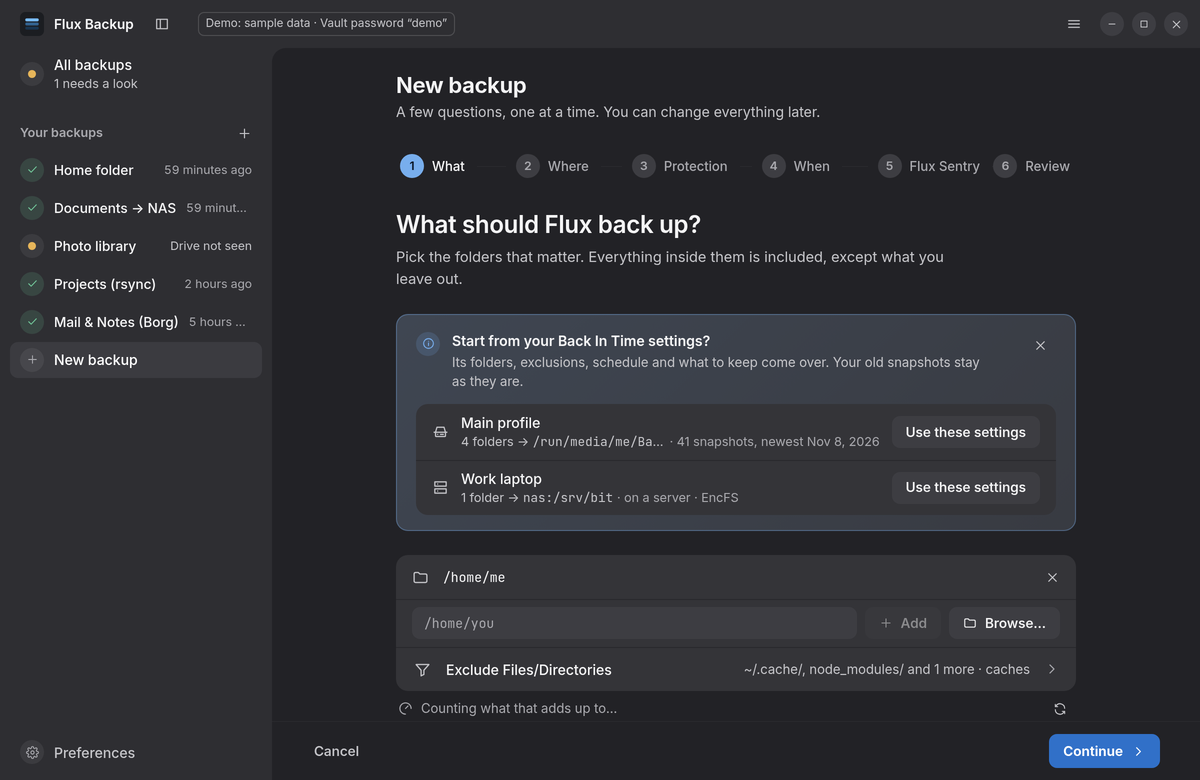
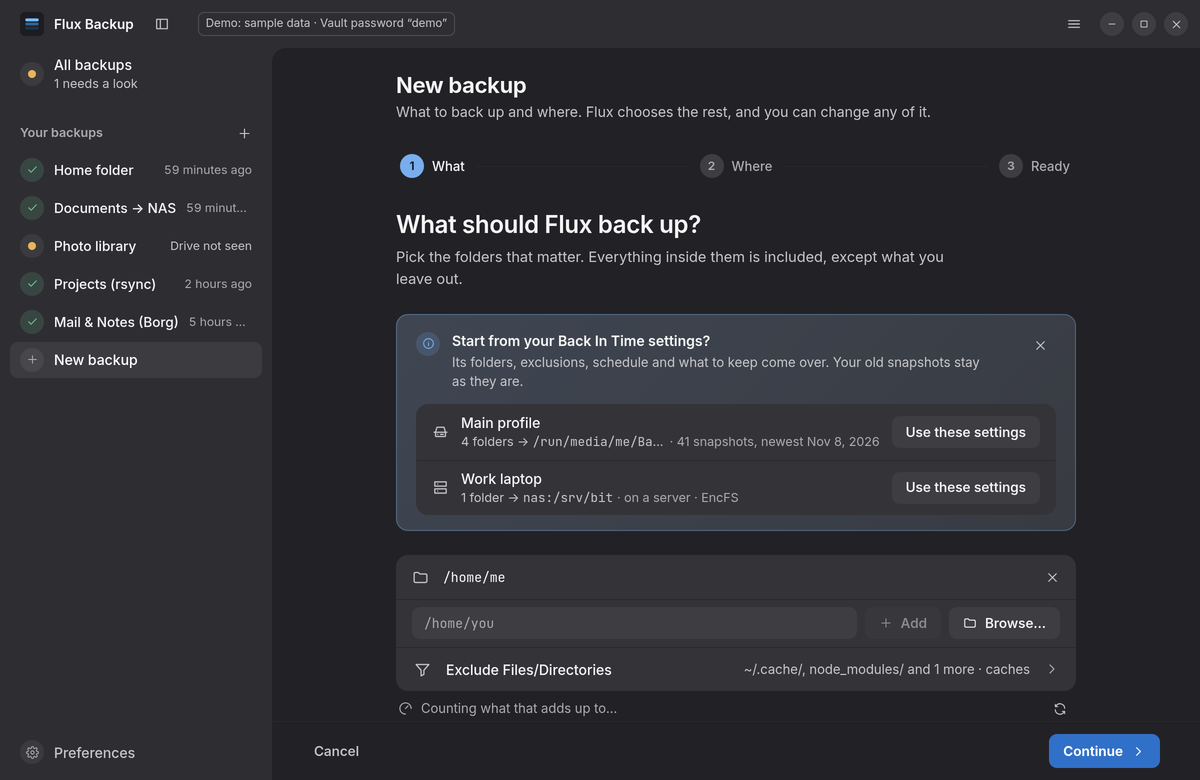
Phase 168: a new backup in two questions
Asked by the owner: streamline setting up a new backup. The guide had six
steps after the template picker; with a template, four of them (how it's
stored, when, what to keep, Flux Sentry) had their answer already and took
only Continue.

The steps are now What, Where and Ready. Ready lists the rest under
"Chosen for you", each a row that opens the former step in the editor's
dialog; one that needs something (an encrypted Vault's password) says so on
its row and in the footer.

Checked in the demo (headless Chrome), dark and light, through to the
closing screen; two screenshots retaken. svelte-check, app tests, build.

Claude-Session: https://claude.ai/code/session_01Quu1ZsNp2r6vVJbxJzH3J9

diff --git a/app/src/lib/components/ProfileEditor.svelte b/app/src/lib/components/ProfileEditor.svelte
@@ -191,7 +191,7 @@
   // The main page asks the three questions; every further group of settings is a row
   // that opens just that group (docs/UX_PRINCIPLES.md, rule 7). Nothing stays "expanded":
   // the editor always opens on the main page.
-  type Page = "exclusions" | "storage" | "security" | "connection" | "network" | "schedule" | "retention" | "tests" | "webhooks" | "hooks" | "options";
+  type Page = "setup-protect" | "setup-when" | "setup-sentry" | "exclusions" | "storage" | "security" | "connection" | "network" | "schedule" | "retention" | "tests" | "webhooks" | "hooks" | "options";
   /** The main page's sections, each of which can open as a dialog on its own. */
   type Section = "sources" | "destination" | "copies" | "when" | "keep" | "more";
   const sectionTitle: Record<Section, { title: string; text: string }> = {
@@ -214,6 +214,10 @@
   let dialogSection = $state<Section | null>(untrack(() => (dialogOnly?.startsWith("section:") ? (dialogOnly.slice(8) as Section) : null)));
   let page = $state<Page | null>(untrack(() => (dialogOnly && !dialogOnly.startsWith("section:") ? (dialogOnly as Page) : null)) ?? (((askedPage ?? demoPage) as Page | null) ?? null));
   const pageTitle: Record<Page, { title: string; text: string }> = {
+    // The new backup guide's own: what Flux chose, opened from its last screen.
+    "setup-protect": { title: "How should they be stored?", text: "Plain folders are the simplest. Encryption keeps them private if the drive is lost. Or let a standard tool write them, so they never depend on Flux." },
+    "setup-when": { title: "When should it back up?", text: "Flux backs up in the background, even with the app closed, and only copies what changed." },
+    "setup-sentry": { title: "Should Flux Sentry keep watch?", text: "Flux Sentry learns how much of this backup normally changes. When a backup doesn't fit, or shows the marks of ransomware, it warns you and keeps the snapshot from before." },
     exclusions: { title: "Exclude Files/Directories", text: "Files and folders that aren't worth backing up: caches, downloads, build output." },
     storage: { title: "How backups are stored", text: "Flux's own formats, or a standard tool's so the backups work without Flux." },
     security: { title: "Security", text: "How well the Vault's password resists guessing, an optional unlock file, and what the app and the drive give away." },
@@ -275,9 +279,14 @@
     // A dialog on its own can't show another group: its message says what's wrong.
     if (dialogOnly) return;
     if (creating) {
-      const s = stepOf(field);
-      dir = -1;
+      const a = areaOf(field);
+      const s: Step = a === "what" || a === "where" ? a : "review";
+      dir = s === step ? dir : -1;
       step = s;
+      // What Flux chose opens over the last screen.
+      page = pageOf(field) ?? (a === "protect" ? "setup-protect" : a === "when" ? "setup-when" : null);
+      await tick();
+      return;
     }
     page = pageOf(field);
     await tick();
@@ -748,15 +757,19 @@
   const opt = (v: string) => (v.trim() === "" ? null : v.trim());
   const lines = (v: string) => v.split("\n").map((l) => l.trim()).filter(Boolean);
 
-  // ---- the setup wizard (new backups): one question per step ----
-  type Step = "what" | "where" | "protect" | "when" | "sentry" | "review";
+  // ---- the setup wizard (new backups) ----
+  // Two questions have no answer Flux could choose: what, and where. The rest (how it's
+  // stored, when, what to keep, Flux Sentry) comes from the template with an answer that
+  // suits most backups, so it isn't asked: the last screen shows what was chosen, and each
+  // answer opens there to be changed. (Through 1.2 each was a step of its own: six, where
+  // four only ever needed Continue.)
+  type Step = "what" | "where" | "review";
+  /** What a problem is about: a step, or one of the answers the last screen shows. */
+  type Area = Step | "protect" | "when" | "sentry";
   const steps: { id: Step; label: string; title: string; text: string }[] = [
     { id: "what", label: "What", title: "What should Flux back up?", text: "Pick the folders that matter. Everything inside them is included, except what you leave out." },
     { id: "where", label: "Where", title: "Where should the backups go?", text: "A drive you plug in, a folder, or a server on your network. Best on a different disk than the files themselves." },
-    { id: "protect", label: "Protection", title: "How should they be stored?", text: "Plain folders are the simplest. Encryption keeps them private if the drive is lost. Or let a standard tool write them, so they never depend on Flux." },
-    { id: "when", label: "When", title: "When should it back up?", text: "Flux backs up in the background, even with the app closed, and only copies what changed." },
-    { id: "sentry", label: "Flux Sentry", title: "Should Flux Sentry keep watch?", text: "Flux Sentry learns how much of this backup normally changes. When a backup doesn't fit, or shows the marks of ransomware, it warns you and keeps the snapshot from before." },
-    { id: "review", label: "Review", title: "", text: "Check the details. Everything can be changed later in Settings." },
+    { id: "review", label: "Ready", title: "", text: "Flux chose the rest to suit most backups. Change anything here, or later in Settings." },
   ];
   let step = $state<Step>("what");
   /** The furthest step reached (earlier ones can be revisited from the stepper). */
@@ -771,7 +784,7 @@
   let makingCode = $state(false);
   let codeMade = $state(false);
 
-  function stepOf(field: string): Step {
+  function areaOf(field: string): Area {
     if (field.startsWith("sources")) return "what";
     if (field.startsWith("target")) return "where";
     if (/^(vault|borg|rsync|engine)/.test(field)) return "protect";
@@ -779,18 +792,18 @@
     return "review";
   }
   /** What still stops this step, in words (null: ready). */
-  function stepIssue(s: Step): string | null {
+  function stepIssue(s: Area): string | null {
     if (!draft) return null;
     if (s === "what" && !draft.sources.paths.length) return "add a folder";
     if (s === "where" && draft.target.kind === "ssh" && !draft.target.host.trim()) return "type the server's name";
-    const e = issues.find((i) => i.severity === "error" && stepOf(i.field) === s);
+    const e = issues.find((i) => i.severity === "error" && areaOf(i.field) === s);
     if (e) return e.message;
     if (s === "protect" && encrypted && pwSource?.from === "file" && !pwSource.path.trim()) return "choose the key file";
     if (s === "protect" && encrypted && pwSource?.from === "command" && !pwSource.command.trim()) return "type the command that prints the " + pwWord;
     if (s === "protect" && pwIssue) return pwIssue;
     if (s === "review") {
-      for (const other of steps.slice(0, -1)) {
-        const x = stepIssue(other.id);
+      for (const other of ["what", "where", "protect", "when", "sentry"] as const) {
+        const x = stepIssue(other);
         if (x) return x;
       }
       if (!profileId) return "give it a name";
@@ -978,6 +991,11 @@
 
   <!-- A dialog on its own (from the Overview) saves by itself: Cancel and Save, and what
        stops saving said beside them. -->
+  <!-- An answer the new backup guide chose: what it is, or what it still needs. -->
+  {#snippet chosenRow(area: "protect" | "when" | "sentry", p: Page, title: string, icon: IconName, summary: string)}
+    {@const issue = stepIssue(area)}
+    <Row {title} {icon} subtitle={issue ? `Still needed: ${issue}` : summary} onclick={() => openPage(p)} />
+  {/snippet}
   {#snippet dialogButtons()}
     {@const first = issues.find((i) => i.severity === "error")}
     {#if first || pwIssue}
@@ -1462,7 +1480,22 @@
           {#snippet pageBody()}
             {#if draft && page}
 
-          {#if page === "exclusions"}
+          {#if page === "setup-protect"}
+            <StorageChoice engine={draft.engine} onchoose={(e) => setEngine(e)} />
+            {#if draft.engine === "vault"}
+              <!-- A Vault is a Vault either way: encryption is its own question. -->
+              <section>
+                <h3 class="group-title">Encryption</h3>
+                <div class="rows">{@render encryptionRow(false, "")}</div>
+              </section>
+            {/if}
+            {#if encrypted}{@render passwordGroup()}{/if}
+          {:else if page === "setup-when"}
+            <div id="sec-schedule">{@render whenBody()}</div>
+            {@render howItRuns()}
+          {:else if page === "setup-sentry"}
+            {@render sentryChoice()}
+          {:else if page === "exclusions"}
             <section class="flex flex-col gap-4">
               <Field label="" hint="*.iso or node_modules/ match anywhere; /path or ~/path one place; !pattern keeps something back in." issues={at("sources.exclude")}>
                 <ListEditor bind:items={draft.sources.exclude} placeholder="~/Videos/  or  *.iso" label="Left out" icon="filter" sizes={folderSizes} />
@@ -2153,25 +2186,6 @@
                     <div>{@render whereList()}</div>
                     {#if draft.target.kind === "ssh"}<div class="rows">{@render pageRow("connection", "terminal", connectionSummary)}</div>{/if}
                   </div>
-                {:else if step === "protect"}
-                  <StorageChoice engine={draft.engine} onchoose={(e) => setEngine(e)} />
-                  {#if draft.engine === "vault"}
-                    <!-- A Vault is a Vault either way: encryption is its own question. -->
-                    <section>
-                      <h3 class="group-title">Encryption</h3>
-                      <div class="rows">{@render encryptionRow(false, "")}</div>
-                    </section>
-                  {/if}
-                  {#if encrypted}{@render passwordGroup()}{/if}
-                {:else if step === "sentry"}
-                  {@render sentryChoice()}
-                {:else if step === "when"}
-                  <div id="sec-schedule">{@render whenBody()}</div>
-                  <section>
-                    <h3 class="group-title">What to keep</h3>
-                    <div class="rows">{@render pageRow("retention", "history", "", keepSummary)}</div>
-                  </section>
-                  {@render howItRuns()}
                 {:else}
                   {@render nameGroup()}
                   <section>
@@ -2179,11 +2193,18 @@
                     <div class="rows">
                       <Row title="What" icon="folder" subtitle={whatSummary} onclick={() => go("what")} />
                       <Row title="Where" icon={draft.target.kind === "ssh" ? "server" : "drive"} subtitle={whereSummary} onclick={() => go("where")} />
-                      <Row title="Protection" icon="lock" subtitle={protectSummary} onclick={() => go("protect")} />
-                      <Row title="When" icon="clock" subtitle={whenSummary} onclick={() => go("when")} />
-                      <Row title="Flux Sentry" icon="sentry" subtitle={sentrySummary} onclick={() => go("sentry")} />
-                      <Row title="What to keep" icon="history" subtitle={keepSummary} onclick={() => openPage("retention")} />
                     </div>
+                  </section>
+                  <!-- Not asked: chosen by the template, shown here, each one click to change. -->
+                  <section>
+                    <h3 class="group-title">Chosen for you</h3>
+                    <div class="rows">
+                      {@render chosenRow("protect", "setup-protect", "How it's stored", "lock", protectSummary + (draft.engine === "mirror" || draft.engine === "rsync" ? " · not encrypted" : ""))}
+                      {@render chosenRow("when", "setup-when", "When", "clock", whenSummary)}
+                      <Row title="What to keep" icon="history" subtitle={keepSummary} onclick={() => openPage("retention")} />
+                      {@render chosenRow("sentry", "setup-sentry", "Flux Sentry", "sentry", sentrySummary)}
+                    </div>
+                    <p class="mt-1.5 px-0.5 text-[12.5px] text-fg-muted">Click one to change it.</p>
                   </section>
                   <section>
                     <h3 class="group-title">More options</h3>

diff --git a/site/guide.html b/site/guide.html
@@ -124,7 +124,7 @@ sudo PREFIX=/usr packaging/install.sh</code></pre></div>
 <tr><td><strong>Start from nothing</strong></td><td></td><td></td><td></td><td></td></tr>
 </tbody></table></div>
 <p>Everything a template fills in can be changed in the next steps. To make your own, open a backup's <strong>⋯</strong> menu › <strong>Save as a template…</strong>: new backups can then start from its folders, exclusions, schedule, what to keep and how it's stored (not where it goes, the other places it's copied to, or its webhooks). Your templates are listed under the built-in ones, with a button to remove them. In a terminal: <code>flux profile templates</code>, <code>flux profile create … --template development</code> (<code>-s</code> and <code>-x</code> replace the folders and add exclusions), <code>flux profile save-template &lt;profile&gt; "&lt;name&gt;"</code>, <code>flux profile delete-template "&lt;name&gt;"</code>.</p>
-<p>A short guide then asks one question per step: <strong>What</strong> to back up (your home folder by default), <strong>Where</strong> to keep it (a connected drive, each with a meter of how full it is; a folder; or an SSH server), <strong>Protection</strong> (plain folders, a Vault encrypted or not, or written by rsync or Borg so the backups never depend on Flux; an encrypted one asks for its password right there), <strong>When</strong>, and <strong>Flux Sentry</strong>: whether it keeps watch for unusual changes, <em>normally</em> (recommended), <em>closely</em> or not at all (see <a href="#what-to-keep">Unusual changes</a>). <strong>Review</strong> shows every answer with a way back to change it and the name it will have; <strong>Create backup</strong> sets it up and offers <strong>Back up now</strong> for the first run. Later, a backup's <strong>Settings</strong> show the same questions on one page. Everything else is one click away and has sensible defaults: each group of settings is a row showing its current value (<em>Exclude Files/Directories › caches</em>, <em>How backups are stored › Plain folders</em>, <em>Keep and remove snapshots</em>, <em>Hooks › None</em>…). Click one to open just that group in a dialog over the editor; <strong>Done</strong> closes it, and nothing is saved until you click <strong>Save</strong>. A row with a problem says so in red.</p>
+<p>A short guide then asks the two things only you can answer: <strong>What</strong> to back up (your home folder by default) and <strong>Where</strong> to keep it (a connected drive, each with a meter of how full it is; a folder; or an SSH server). The rest Flux chooses, from the template, to suit most backups, and the last screen, <strong>Ready</strong>, shows it under <em>Chosen for you</em>: <strong>How it's stored</strong> (plain folders, a Vault encrypted or not, or written by rsync or Borg so the backups never depend on Flux; an encrypted one asks for its password right there), <strong>When</strong>, <strong>What to keep</strong>, and <strong>Flux Sentry</strong>: whether it keeps watch for unusual changes, <em>normally</em> (recommended), <em>closely</em> or not at all (see <a href="#what-to-keep">Unusual changes</a>). Click any of them to change it there; one that still needs something (a password) says so. <strong>Create backup</strong> sets it up and offers <strong>Back up now</strong> for the first run. Later, a backup's <strong>Settings</strong> show the same questions on one page. Everything else is one click away and has sensible defaults: each group of settings is a row showing its current value (<em>Exclude Files/Directories › caches</em>, <em>How backups are stored › Plain folders</em>, <em>Keep and remove snapshots</em>, <em>Hooks › None</em>…). Click one to open just that group in a dialog over the editor; <strong>Done</strong> closes it, and nothing is saved until you click <strong>Save</strong>. A row with a problem says so in red.</p>
 <p>While you choose what to back up, Flux counts what it adds up to after the exclusions ("About 32 GiB in 51,900 files") and warns if that's more than the free space where it would go. The ↻ button next to it counts again, after you change what's left out or the files themselves. On <strong>When</strong>, <em>What happens each time it backs up</em> explains in plain words what your choices add up to: when it runs, what it copies, what it keeps, and how to get files back.</p>
 <p>In <em>Settings › Performance and behaviour</em>, <strong>Recommended defaults</strong> puts every setting there back to what Flux recommends (nothing is saved until you click <strong>Save</strong>).</p>
 <p><strong>Coming from Back In Time?</strong> If Back In Time is set up for you (<code>~/.config/backintime/config</code>), the first step offers each of its profiles: <strong>Use these settings</strong> fills in its folders, exclusions, schedule, what to keep and options (extra rsync options too, except the ones Flux sets itself). Each step can still be changed; on <strong>Protection</strong>, rsync is preselected because it makes the same kind of plain, hard-linked folders Back In Time did, and the other choices are right there (a profile Back In Time encrypted with EncFS becomes an encrypted Vault). Flux can't carry on Back In Time's own snapshots, so it starts a fresh set next to them. They stay where they are, untouched: keep Back In Time to restore from them, and turn off its schedule so both don't back up at once. In a terminal: <code>flux profile backintime</code> lists the profiles, <code>flux profile backintime 1</code> creates a Flux profile from the first (<code>--engine</code> to choose another way of storing it, <code>--id</code> to name it).</p>

diff --git a/site/index.html b/site/index.html
@@ -101,7 +101,7 @@
         <div class="sentry-mark"><svg viewBox="0 0 24 24" fill="none" stroke="currentColor" stroke-width="1.6" stroke-linecap="round" stroke-linejoin="round" aria-hidden="true"><path d="M12 3l8 3v6c0 4.5-3.4 8.3-8 9-4.6-.7-8-4.5-8-9V6l8-3ZM7.6 11.6c1.2-1.7 2.7-2.6 4.4-2.6s3.2.9 4.4 2.6c-1.2 1.7-2.7 2.6-4.4 2.6s-3.2-.9-4.4-2.6ZM12 11.6h.01"/></svg></div>
         <div>
           <h3>On watch from the first backup.</h3>
-          <p>Setting up a backup asks one question about it: watch <b>normally</b> (recommended), <b>closely</b>, or not at all. Add <b>tripwire files</b>, and the first file an attacker touches may be the one that gives it away. A green <span class="sentry-tag"><svg viewBox="0 0 24 24" fill="none" stroke="currentColor" stroke-width="1.6" stroke-linecap="round" stroke-linejoin="round" aria-hidden="true"><path d="M12 3l8 3v6c0 4.5-3.4 8.3-8 9-4.6-.7-8-4.5-8-9V6l8-3ZM7.6 11.6c1.2-1.7 2.7-2.6 4.4-2.6s3.2.9 4.4 2.6c-1.2 1.7-2.7 2.6-4.4 2.6s-3.2-.9-4.4-2.6ZM12 11.6h.01"/></svg>Flux Sentry active</span> on the backup's page says it's there. Tell it <i>This was me</i> when a big change was yours, and it remembers.</p>
+          <p>A new backup is watched <b>normally</b>; when you set it up, one click changes that to <b>closely</b>, or to not at all. Add <b>tripwire files</b>, and the first file an attacker touches may be the one that gives it away. A green <span class="sentry-tag"><svg viewBox="0 0 24 24" fill="none" stroke="currentColor" stroke-width="1.6" stroke-linecap="round" stroke-linejoin="round" aria-hidden="true"><path d="M12 3l8 3v6c0 4.5-3.4 8.3-8 9-4.6-.7-8-4.5-8-9V6l8-3ZM7.6 11.6c1.2-1.7 2.7-2.6 4.4-2.6s3.2.9 4.4 2.6c-1.2 1.7-2.7 2.6-4.4 2.6s-3.2-.9-4.4-2.6ZM12 11.6h.01"/></svg>Flux Sentry active</span> on the backup's page says it's there. Tell it <i>This was me</i> when a big change was yours, and it remembers.</p>
         </div>
       </div>
     </section>

diff --git a/app/src/App.svelte b/app/src/App.svelte
@@ -141,7 +141,7 @@
           <p class="mt-1 text-sm text-fg-2">
             {app.creatingSystem
               ? "Back up the whole computer's settings and folders only root can read. Hooks of system profiles run as root too."
-              : "A few questions, one at a time. You can change everything later."}
+              : "What to back up and where. Flux chooses the rest, and you can change any of it."}
           </p>
         </div>
         {#if app.creatingTemplate === null}

diff --git a/docs/TRACKER.md b/docs/TRACKER.md
@@ -4496,3 +4496,26 @@ The item phase 107 left: the sources were scanned for the look and again for the
 - [ ] Left from the review, not asked for: Mirror keeps no checksum unless change
       detection is by checksum; an SSH Mirror's snapshot isn't synced before its rename;
       `config` has no repair data until the first prune or repair; the smaller items
+
+### Phase 168 — A new backup in two questions (2026-11-12)
+- [x] Asked by the owner: streamline setting up a new backup. Walked in the demo
+      (headless Chrome): the template picker, then six steps (What, Where, Protection,
+      When, Flux Sentry, Review), then the closing screen; with a template, four of the
+      six had their answer already and took only *Continue*
+- [x] `ProfileEditor`: the steps are What, Where and Ready. Ready keeps the name and
+      *Your backup* (What, Where: back to their steps) and gains *Chosen for you*: How
+      it's stored (says "not encrypted" for plain folders), When, What to keep, Flux
+      Sentry, each a row opening the former step's content in the editor's dialog
+      (pages `setup-protect`, `setup-when`, `setup-sentry`; `chosenRow`). A chosen
+      answer that needs something (an encrypted Vault's password) says "Still needed: …"
+      on its row, and the footer's "To finish" as before (`stepIssue` over areas, not
+      only steps). A problem in one of them opens its dialog over Ready (`jumpTo`)
+- [x] The header line under *New backup* says what's asked; UX_PRINCIPLES rule 12
+- [x] Checked in the demo, dark and light: both steps, Ready, each of the three dialogs,
+      a Vault chosen without a password (the row and the footer say so, *Create backup*
+      waits), creating a backup to the closing screen. Screenshots `new-dark` and
+      `sentry-dark` retaken (`site/shots.mjs` opens Sentry from Ready)
+- [x] USER_GUIDE, site guide and front page, README, CHANGELOG
+- [x] Checks: svelte-check (0, 0), app tests, Vite build; no Rust changed
+- [ ] Ready is taller than a 780px window: the last two chosen rows and *More options*
+      need a scroll

diff --git a/docs/USER_GUIDE.md b/docs/USER_GUIDE.md
@@ -85,13 +85,16 @@ built-in ones, with a button to remove them. In a terminal: `flux profile templa
 exclusions), `flux profile save-template <profile> "<name>"`, `flux profile
 delete-template "<name>"`.
 
-A short guide then asks one question per step: **What** to back up (your home folder by default), **Where** to keep it (a
-connected drive, each with a meter of how full it is; a folder; or an SSH server), **Protection** (plain folders, a Vault encrypted or
-not, or written by rsync or Borg so the backups never depend on Flux; an encrypted one
-asks for its password right there), **When**, and **Flux Sentry**: whether it keeps watch for
-unusual changes, *normally* (recommended), *closely* or not at all (see
-[Unusual changes](#what-to-keep)). **Review** shows every answer with a way back to
-change it and the name it will have; **Create backup** sets it up and offers **Back up
+A short guide then asks the two things only you can answer: **What** to back up (your
+home folder by default) and **Where** to keep it (a connected drive, each with a meter of
+how full it is; a folder; or an SSH server). The rest Flux chooses, from the template, to
+suit most backups, and the last screen, **Ready**, shows it under *Chosen for you*: **How
+it's stored** (plain folders, a Vault encrypted or not, or written by rsync or Borg so the
+backups never depend on Flux; an encrypted one asks for its password right there),
+**When**, **What to keep**, and **Flux Sentry**: whether it keeps watch for unusual
+changes, *normally* (recommended), *closely* or not at all (see
+[Unusual changes](#what-to-keep)). Click any of them to change it there; one that still
+needs something (a password) says so. **Create backup** sets it up and offers **Back up
 now** for the first run. Later, a backup's **Settings** show the same questions on one
 page. Everything else is one click away and has sensible defaults: each group of settings is a
 row showing its current value (*Exclude Files/Directories › caches*, *How backups are stored ›

diff --git a/README.md b/README.md
@@ -143,7 +143,7 @@ the other engines. See the
 | ![What's backed up, and the rule that leaves node_modules out](docs/screenshots/rules-dark.png) | ![The snapshot calendar](docs/screenshots/calendar-dark.png) |
 | ![Storage and recovery readiness](docs/screenshots/storage-dark.png) | ![Exporting a snapshot as an archive](docs/screenshots/archive-dark.png) |
 | ![A backup's settings at a glance](docs/screenshots/glance-dark.png) | ![Every backup's settings side by side](docs/screenshots/table-dark.png) |
-| ![Setting up a backup: should Flux Sentry keep watch?](docs/screenshots/sentry-dark.png) | |
+| ![Setting up a backup: Flux Sentry, chosen for you and one click to change](docs/screenshots/sentry-dark.png) | |
 
 The app (Tauri 2, Svelte 5, Tailwind 4, and the GNOME-style "At home on the desktop" design
 in [docs/DESIGN.md](docs/DESIGN.md)) does everything the CLI does:
@@ -159,8 +159,9 @@ in [docs/DESIGN.md](docs/DESIGN.md)) does everything the CLI does:
   another folder, with a preview of what would be added, kept aside or replaced.
 - **Activity:** every run with its log, warnings and hook output; a Problems filter and
   **Copy diagnostics** for bug reports.
-- **Setting up a backup:** a short guide, one question per step (what, where, protection,
-  when), a review of every answer, and an offer to run the first backup.
+- **Setting up a backup:** a short guide asks what and where; the rest (how it's stored,
+  when, what to keep, Flux Sentry) is chosen for you and shown on the last screen, one
+  click to change; then an offer to run the first backup.
   Connected USB drives are offered (and tied to their filesystem, so an unplugged drive is
   never mistaken for its empty mount point). Everything else is a row with its current
   value that opens just that group: exclusions with suggestions and real sizes, connection

diff --git a/docs/UX_PRINCIPLES.md b/docs/UX_PRINCIPLES.md
@@ -86,10 +86,14 @@ root problem behind most complaints: **things didn't look like what they were.**
 11. **Answer first.** The start page and each backup's Overview lead with one sentence
     ("4 of 5 backups are protected.") and say what's wrong and what to do in plain words;
     every place that says when a backup runs next uses the same words (`nextRun`).
-12. **New things are set up one question at a time.** A new backup is a wizard (What,
-    Where, Protection, When, Review, then a closing screen offering the first backup); each
-    step says what's still missing before Continue works, and the review links back to every
-    answer. Settings of an existing backup stay on one page. (Added 2026-11-08.)
+12. **New things are set up one question at a time, and only the questions that have no
+    default are asked.** A new backup is a wizard of What, Where and Ready, then a closing
+    screen offering the first backup. What Flux can choose well (how it's stored, when,
+    what to keep, Flux Sentry) isn't a step: Ready lists it under *Chosen for you*, each
+    answer a row that opens in a dialog there. A step says what's still missing before
+    Continue works; a chosen answer that needs something says so on its row. Settings of
+    an existing backup stay on one page. (Added 2026-11-08; four steps folded into Ready
+    2026-11-12: they only ever needed Continue.)
 
 ## Building blocks (app/src)
 

diff --git a/CHANGELOG.md b/CHANGELOG.md
@@ -18,6 +18,12 @@ Speed: Flux doing the same work with less of the computer, so a backup runs as f
 
 ### Changed
 
+- **Setting up a backup takes two questions.** The guide asked six things, one screen
+  each, and four of them (how it's stored, when, what to keep, Flux Sentry) already had
+  an answer that suits most backups and only needed *Continue*. It now asks what to back
+  up and where; its last screen, *Ready*, lists the rest under *Chosen for you*, and a
+  click on any of them changes it there. Choosing an encrypted Vault still asks for its
+  password, and the row says so until it has one.
 - **You can see what's chosen.** In a list of choices (which files a restore test reads,
   how backups are stored) the chosen one has a filled circle and is tinted and outlined;
   before, only a small check at the far end said so, and none at all when a number box
